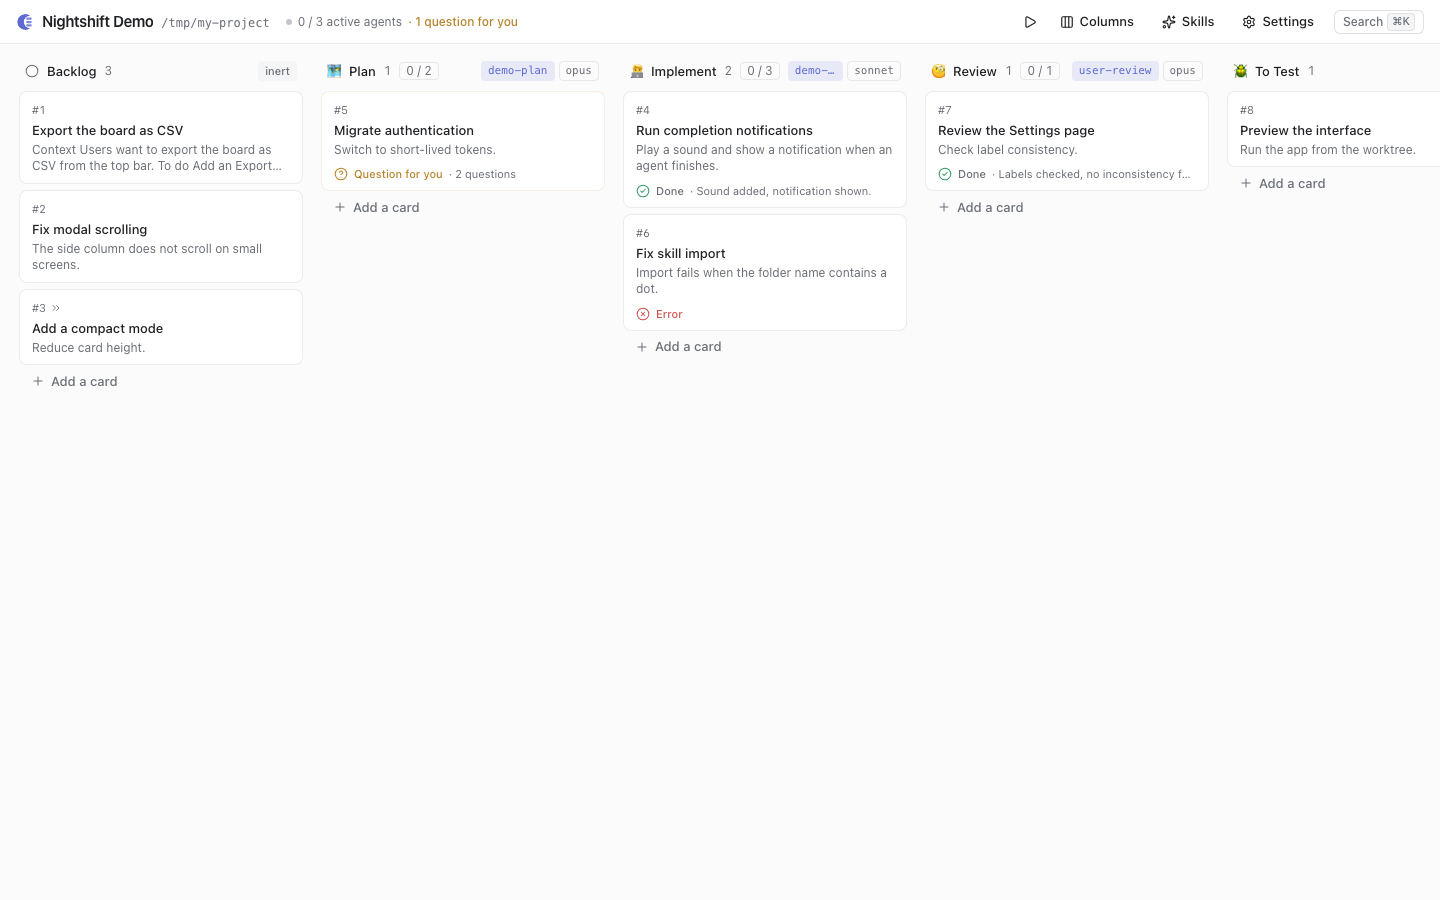
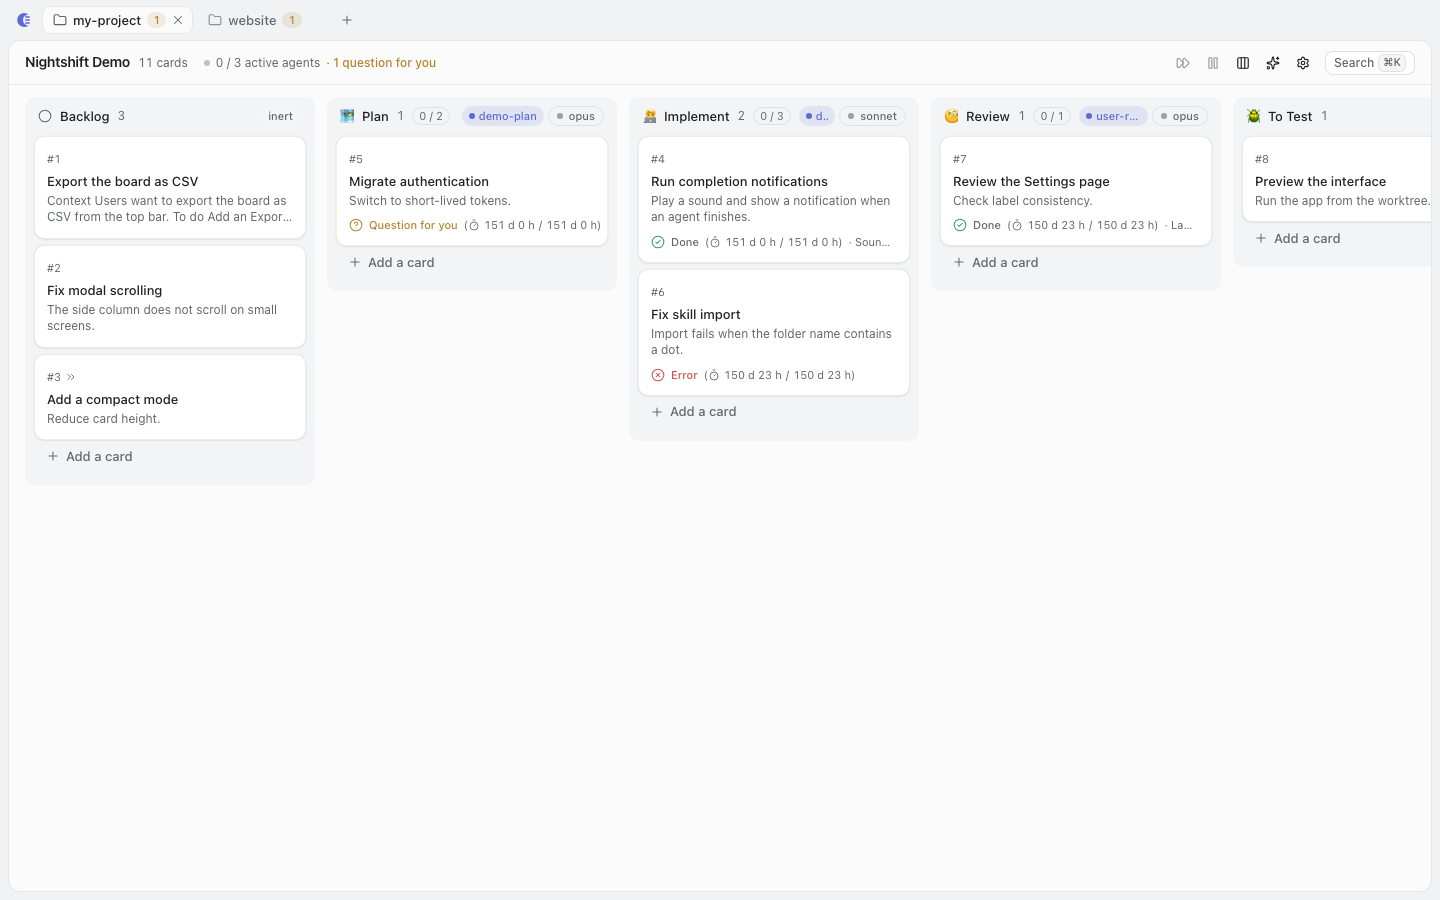
docs: project tabs in README, board screenshot in the new style

diff --git a/README.md b/README.md
@@ -13,6 +13,7 @@
 - **Feedback and resume**: send free-text feedback to the agent from any card.
 - **Fast forward and pause**: one button sends every ready Backlog card through the board in parallel, another pauses automatic runs.
 - **Dependencies**: a card can wait in Backlog until other cards are done, then start on its own.
+- **Project tabs**: keep several projects open in one browser tab and switch with a click or ⌥1–9.
 - **One committable file**: the whole board is a single `nightshift.json`.
 - **Template skills shipped**: grill, plan, implement, review and merge, copied into new projects.
 - **Local only**: the server listens on `127.0.0.1` only.
@@ -52,6 +53,7 @@ bun start ~/code/my-project                                  # open a board for 
 - When done, the agent returns structured output (`--json-schema`): updated title/description, `move` (`next`, `stay` or a column id) and a summary. Nightshift applies it to the card and, if moved into another skill column, the next skill starts automatically.
 - **Session per card**: a column continues the card's Claude session (`claude --resume`) unless it has "Fresh session" ticked, which starts a new session there (the columns after it continue that new one). New skill columns, and the default board, have "Fresh session" ticked: the card description carries what each skill needs, and the context does not grow from column to column. Untick it on a column to keep the earlier context. Boards already on disk keep their columns as they are. If the card's session cannot be resumed (deleted, or created on another machine), the step starts a new one.
 - **Questions**: when an agent is blocked on human decisions, it returns all its `questions` at once and the card waits in its column. Answering in the card resumes the same Claude session (`claude --resume`) with every Q/A pair. `AskUserQuestion` is disabled for agents.
+- **Project tabs**: the bar above the board lists the open projects (folder name, full path on hover, a counter of cards waiting for your answer). `+` opens the project picker; picking a project already open activates its tab. Click a tab, or press ⌘1–9 / Ctrl+1–9 / ⌥1–9, to switch without reloading the page. Closing a tab only hides it: the project and its agents keep running on the server. The open tabs are kept in the browser (`localStorage`), not in `nightshift.json`; a tab whose folder no longer opens stays and shows the error.
 - **Dependencies**: a card in Backlog can depend on other cards of the board (`dependsOn`), chosen in the new card dialog or the card's detail. While one of them is not in Done, the card is held in Backlog (its tile shows "waiting #12, #15"). As soon as they are all in Done, Nightshift moves it to the first column after Backlog that it does not skip, and the column's agent starts as for a manual move; the history records "Dependencies done (#12, #15): Backlog → Grill" and the list is cleared, so a dependency leaving Done afterwards changes nothing. Dependencies can be edited only while the card is in Backlog, and a change that would create a cycle is refused. Removing the last unmet dependency, or deleting the card it waited for (a deleted dependency counts as met and is recorded as "Dependency #12 deleted"), releases the card at once. A card dragged out of Backlog by hand keeps its list but is never moved by it. Only the instance that runs the project's agents releases cards when a dependency reaches Done (never a `--no-agents` one); on opening a project it releases the cards whose dependencies finished meanwhile. Fast forward skips held cards.
 - **Feedback**: from a card's detail, in any column (inert too), you can send free-text feedback to the agent. It resumes the card's last Claude session (`claude --resume`) with your text and the current card; the agent returns `move` (`stay`, `next` = the column after the card's current column, or a column id) and may ask questions as usual. A failed or cancelled run leaves the card in place and the feedback can be sent again.
 - A card is (re)run when it enters a skill column; the rerun button forces a new run. Moving or deleting a card during a run stops its agent.
